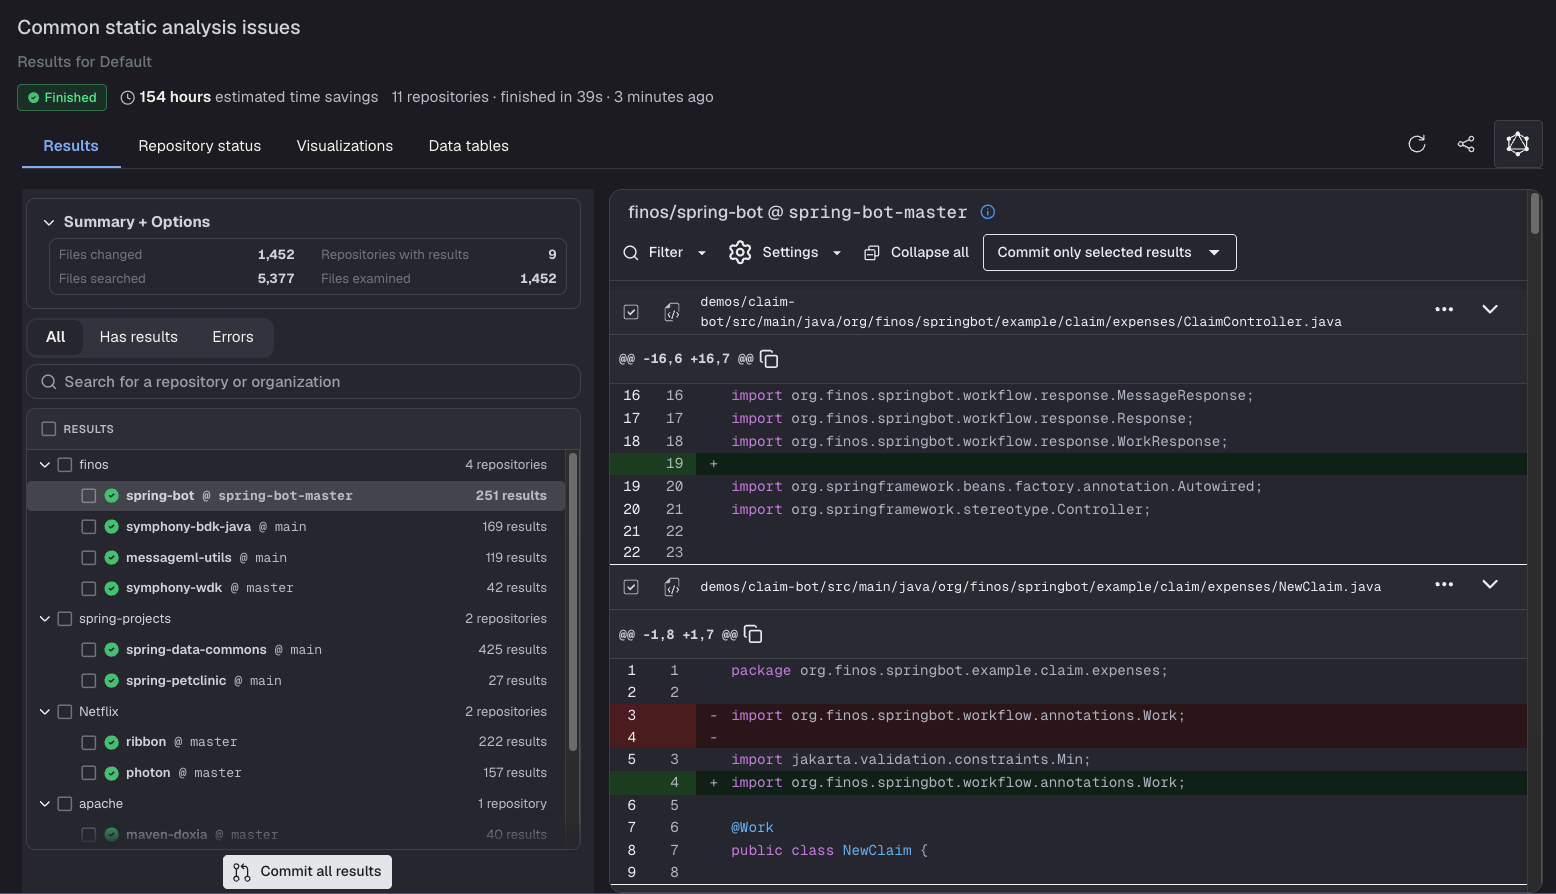
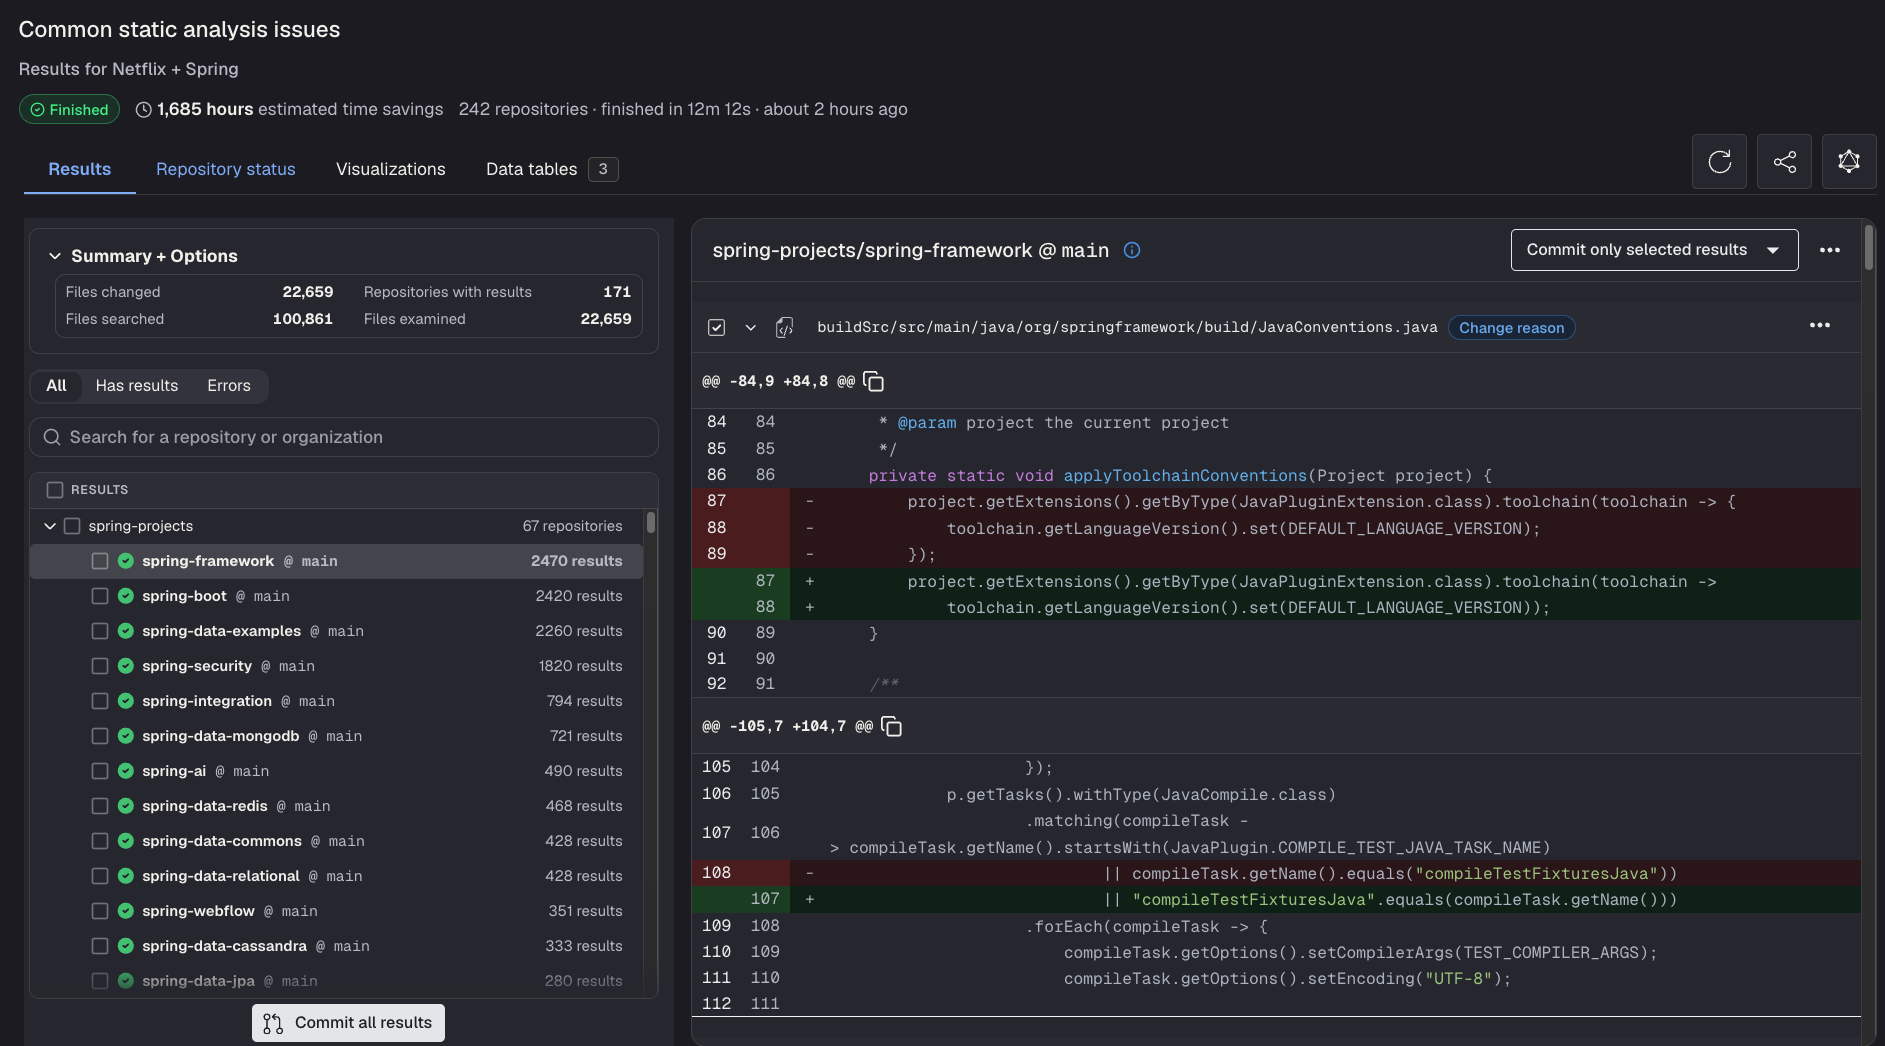
Update getting started photos
To reflect new UI changes

diff --git a/docs/user-documentation/moderne-platform/getting-started/running-your-first-recipe.md b/docs/user-documentation/moderne-platform/getting-started/running-your-first-recipe.md
@@ -84,7 +84,7 @@ After pressing _Dry run_, you will be taken to a page that shows a summary of th
   <figcaption>_Example results_</figcaption>
 </figure>
 
-If you want to learn more about why a change was made, you can click on the three dots (`...`) at the top-right of any file and select `Why did this change?`. For instance, in the below example, we can see that the `final` keyword was added to the class because it only has private constructors:
+If you want to learn more about why a change was made, you can click on the **change reason** label next to the file name:
 
 <figure style={{maxWidth: '600px', margin: '0 auto'}}>
   ![Animated demo of viewing why a specific code change was made](./assets/WhyDidThisChange.gif)
